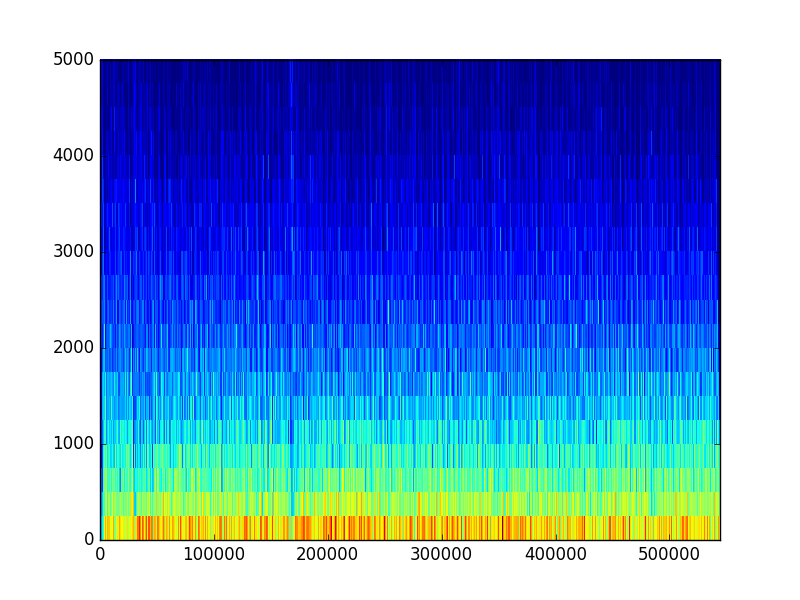
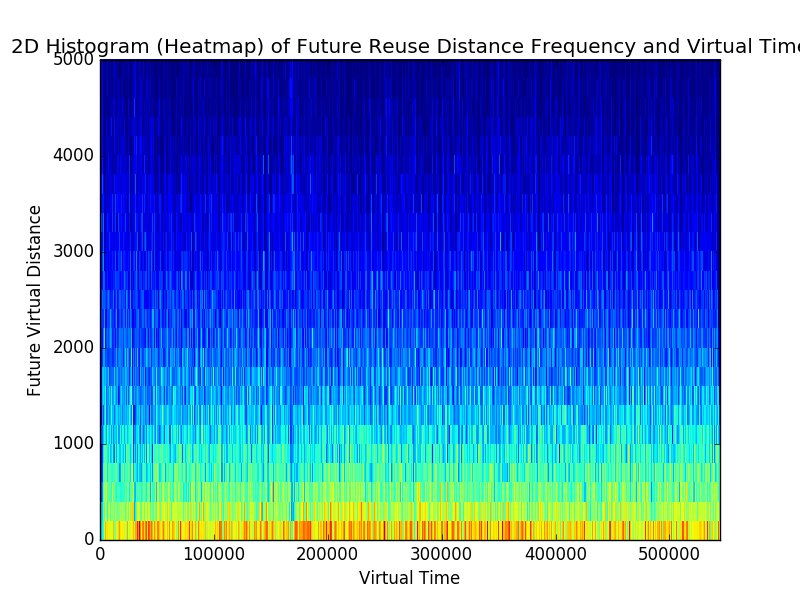
c

diff --git a/asdf.py b/asdf.py
@@ -1,5 +1,5 @@
 import numpy as np
-import random, sys
+import random, sys, time
 import matplotlib
 matplotlib.use('Agg')
 from matplotlib import pyplot as plt
@@ -15,35 +15,84 @@ cache_size = 500
 rand_factor = 0.1
 opt = Optimal(cache_size, reader)
 
-# Timestamp vector
+# Timestamp values
 fut_rd_arr1 = []
-# Future Reuse vector
+# Future Reuse values
 fut_rd_arr2 = []
+# Median values
+med_x = []
+med_y = []
+# Evict Item List
+evict_lst = []
 
 # Dict to store the last vtime for a given id
 #id_to_vtime = {}
 
+t0 = time.time()
 for request in reader:
-    opt.access(request)
+    cur_ev_len = len(evict_lst)
+    opt.access(request, evict_item_list=evict_lst)
     #id_to_vtime[request] = opt.ts
+    temp_lst = []
     for req_id in opt.pq:
         if random.random() < rand_factor:
             fut_rd_arr1.append(opt.ts)
             fut_rd_arr2.append(-opt.pq[req_id] - opt.ts)
+            temp_lst.append(-opt.pq[req_id] - opt.ts) 
+    if temp_lst:
+        med_x.append(opt.ts)
+        med_y.append(np.median(temp_lst))
+    
     if (opt.ts % 10000 == 0):
         print('progress', opt.ts)
+
+t1 = time.time()  
+print('Time for Iteration: ', str(t1-t0))
 
 x = fut_rd_arr1 # virtual time
 y = fut_rd_arr2 # future reuse distance
 
-# Scatter plot of virtual time and future reuse distance    
+# Scatter plot of virtual time and future reuse distance
 plt.figure(1)
-plt.scatter(x, y, s=0.2)
+
+samples = np.random.randint(0, len(x), size=int(0.1*len(x))) # Samples 10% of values to plot
+x_sample = [x[i] for i in samples]
+y_sample = [y[i] for i in samples]
+
+plt.scatter(x_sample, y_sample, s=0.2)
+plt.title('Scatter Plot of Future Reuse Distances and Virtual Time')
+plt.xlabel('Virtual Time')
+plt.ylabel('Future Virtual Distance')
 plt.savefig('img/scatter_' + file_name + '_size_' + str(cache_size) + '.png')
 
+t2 = time.time()
+print('Time for Scatter Plot: ', str(t2-t1))
 
-# 2d Histogram
+# 2D Histogram
 plt.figure(2)
-plt.hist2d(x, y, bins=[opt.ts//100, 20], range=[[0, opt.ts], [0, cache_size*10]])
+
+plt.hist2d(x, y, bins=[opt.ts//100, 25], range=[[0, opt.ts], [0, cache_size*10]])
+plt.title('2D Histogram (Heatmap) of Future Reuse Distance Frequency and Virtual Time')
+plt.xlabel('Virtual Time')
+plt.ylabel('Future Virtual Distance')
 plt.savefig('img/hist_' + file_name + '_size_' + str(cache_size) + '.png')
+
+t3 = time.time()
+print('Time for 2D Histogram: ', str(t3-t2))
+
+# Median
+plt.figure(3)
+
+length = len(med_x)
+med_x = med_x[int(0.05*length):int(0.95*length)]
+med_y = med_y[int(0.05*length):int(0.95*length)]
+
+plt.scatter(med_x, med_y, s=0.2)
+plt.title('Scatter Plot of Future Reuse Distance Median and Virtual Time')
+plt.xlabel('Virtual Time')
+plt.ylabel('Future Virtual Distnace')
+plt.savefig('img/median_' + file_name + '_size_' + str(cache_size) + '.png')
+
+t4 = time.time()
+print('Time for Median Plot: ', str(t4-t3))
 

diff --git a/PyMimircache/cache/optimal.py b/PyMimircache/cache/optimal.py
@@ -82,7 +82,7 @@ class Optimal(Cache):
 
         element = self.pq.popitem()[0]
         return element
-
+    
     def access(self, req_item, **kwargs):
         """
         :param **kwargs: 
